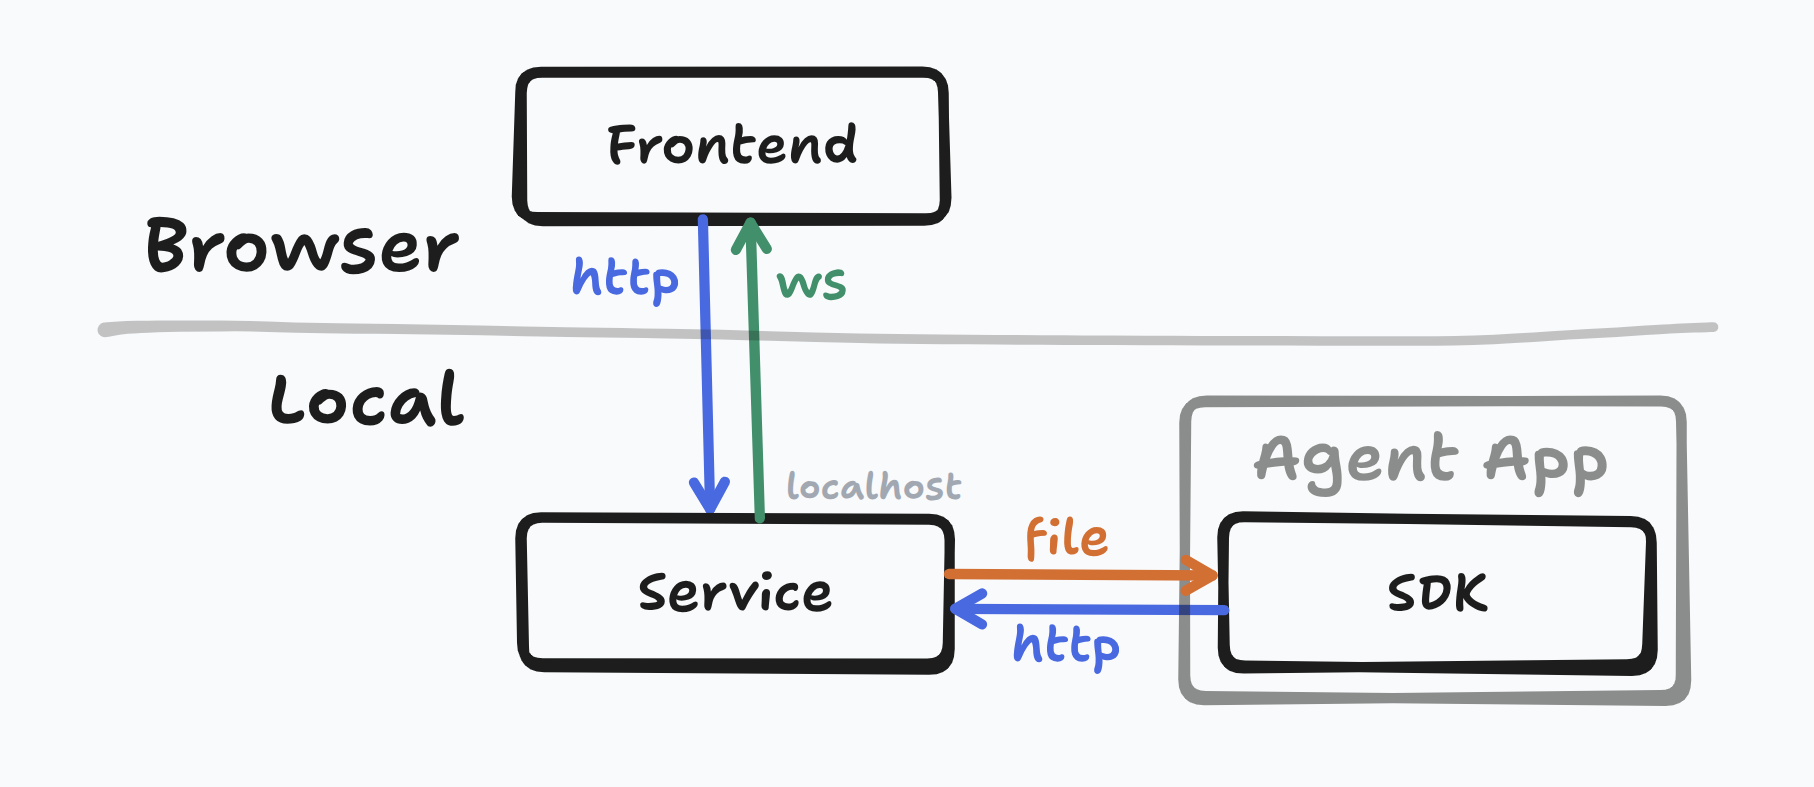
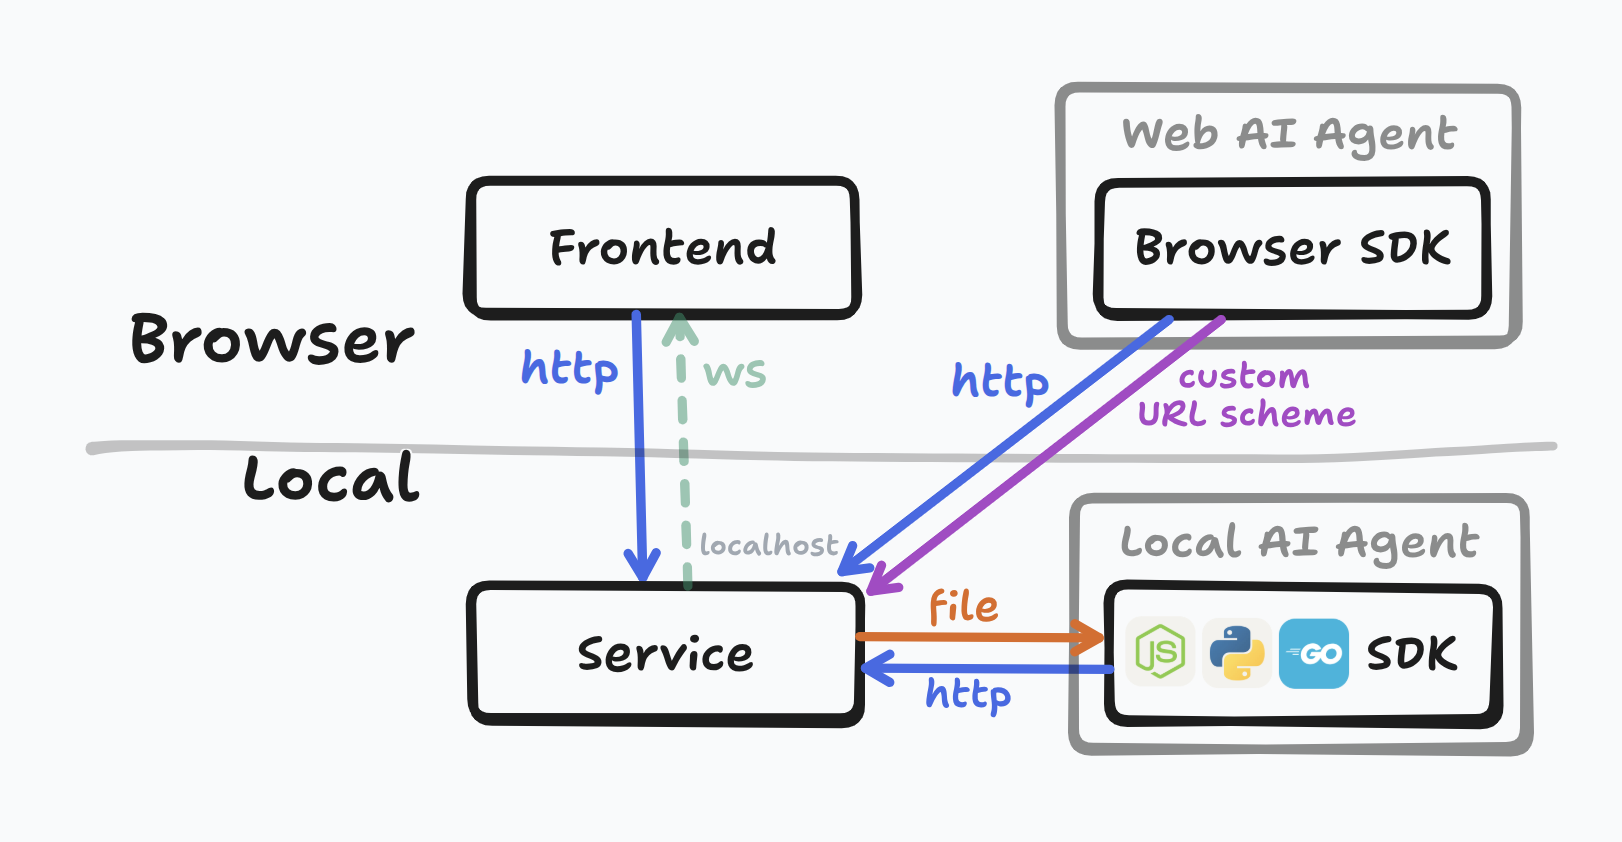
docs: update

Changed region(s): [[0.0308, 0.061, 0.9556, 0.9149], [0.3391, 0.7319, 0.4624, 0.7929]]

diff --git a/docs/.vitepress/config.ts b/docs/.vitepress/config.ts
@@ -8,22 +8,39 @@ export default defineConfig({
   themeConfig: {
     sidebar: [
       {
-        text: 'Introduction',
-        link: '/guide/',
+        text: 'Guide',
+        items: [
+          {
+            text: 'Introduction',
+            link: '/guide/',
+          },
+        ],
       },
       {
         text: 'SDK',
         items: [
           {
+            text: 'Python SDK',
+            link: '/sdk/python',
+          },
+          {
             text: 'Node.js SDK',
             link: '/sdk/nodejs',
           },
           {
-            text: 'Python SDK',
-            link: '/sdk/python',
+            text: 'Go SDK',
+            link: '/sdk/go',
+          },
+          {
+            text: 'Browser SDK',
+            link: '/sdk/browser',
           },
         ],
       },
+    ],
+    socialLinks: [
+      { icon: 'github', link: 'https://github.com/uni-token/core' },
+      { icon: 'discord', link: 'https://discord.gg/UCEu5gTEHg' },
     ],
   },
   head: [

diff --git a/scripts/publish.ts b/scripts/publish.ts
@@ -1,12 +1,7 @@
-import { readFileSync, writeFileSync } from 'node:fs'
 import { resolve } from 'node:path'
 import { $ } from 'zx'
 
 async function publishPythonSdk() {
-  const readme = readFileSync(resolve(import.meta.dirname, '../README.md'), 'utf8')
-  const trimmed = readme.replace(/\n<!--DEV-->([\s\S]*?)<!--\/DEV-->\n/g, '')
-  writeFileSync(resolve(import.meta.dirname, '../sdk/python/README.md'), trimmed)
-
   console.log('Building package...')
 
   $.cwd = resolve(import.meta.dirname, '../sdk/python')

diff --git a/frontend/src/components/StartServiceButton.vue b/frontend/src/components/StartServiceButton.vue
@@ -1,5 +1,5 @@
 <script setup lang="ts">
-import { downloadService, startService, SUPPORTED_OS } from '@uni-token/web-sdk'
+import { downloadService, startService, SUPPORTED_OS } from '@uni-token/browser-sdk'
 import { ref, watch } from 'vue'
 import { useI18n } from 'vue-i18n'
 import { toast } from 'vue-sonner'

diff --git a/docs/.vitepress/theme/Layout.vue b/docs/.vitepress/theme/Layout.vue
@@ -1,0 +1,14 @@
+<script setup>
+import { Analytics } from '@vercel/analytics/vue'
+import DefaultTheme from 'vitepress/theme'
+
+const { Layout } = DefaultTheme
+</script>
+
+<template>
+  <Layout>
+    <template #aside-outline-before>
+      <Analytics />
+    </template>
+  </Layout>
+</template>

diff --git a/docs/.vitepress/theme/index.ts b/docs/.vitepress/theme/index.ts
@@ -1,4 +1,9 @@
 import DefaultTheme from 'vitepress/theme'
+import Layout from './Layout.vue'
 import 'virtual:uno.css'
 
-export default DefaultTheme
+/** @type {import('vitepress').Theme} */
+export default {
+  extends: DefaultTheme,
+  Layout,
+}

diff --git a/frontend/src/stores/service.ts b/frontend/src/stores/service.ts
@@ -1,4 +1,4 @@
-import { findServicePort } from '@uni-token/web-sdk'
+import { findServicePort } from '@uni-token/browser-sdk'
 import { useIntervalFn } from '@vueuse/core'
 import { defineStore } from 'pinia'
 import { computed, ref } from 'vue'

diff --git a/service/server/server.go b/service/server/server.go
@@ -1,6 +1,7 @@
 package server
 
 import (
+	"fmt"
 	"log"
 	"net"
 	"strconv"
@@ -55,13 +56,15 @@ func checkPortAvailability(port int) bool {
 	return err != nil
 }
 
+const PORT_RANGE_START = 18760
+
 func getPort() int {
-	for i := 18000; i < 18010; i++ {
+	for i := PORT_RANGE_START; i < PORT_RANGE_START+10; i++ {
 		if checkPortAvailability(i) {
 			return i
 		} else {
 			log.Printf("Port %d is not available", i)
 		}
 	}
-	panic("No available port found in the range 18000-19000")
+	panic(fmt.Sprintf("No available port found in the range %d-%d", PORT_RANGE_START, PORT_RANGE_START+10))
 }

diff --git a/README.md b/README.md
@@ -1,45 +1,40 @@
 # UniToken
 
-![Arch](https://docs.uni-token.app/arch.png)
+LLM Token Solution for Local AI Agents.
 
-<!--DEV-->
+Open-source, local-first, and lightweight.
 
-## Development
+[**Docs**](https://docs.uni-token.app) | [Python SDK](https://docs.uni-token.app/sdk/python) | [Node.js SDK](https://docs.uni-token.app/sdk/nodejs) | [Go SDK](https://docs.uni-token.app/sdk/go) | [Browser SDK](https://docs.uni-token.app/sdk/browser) | [Development](./CONTRIBUTING.md)
 
-### Requirements
+## Why UniToken?
 
-- Node.js 22
-- PNPM 10
-- go 1.24
-- [uv](https://docs.astral.sh/uv/)
+Local AI agents face a token management dilemma: developers must either run proxy servers and charge users for API costs, or force users to configure LLM tokens themselves, reducing usability.
 
-### Preparation
+UniToken provides a local solution. Through a lightweight SDK, AI agents can launch UniToken's interface for users to authorize existing tokens or purchase new ones from LLM providers - all on a single page. The agent then receives the Base URL and API Key.
 
-```sh
-pnpm i
-go -C service mod tidy
-uv --directory sdk/python sync
-```
+UniToken consists of three open-source, local-first modules:
 
-### Start
+- **SDK**: Lightweight SDKs for Node.js and Python.
+- **App**: A [static web interface](https://uni-token.app).
+- **Service**: Local service handling storage and connections.
 
-```sh
-pnpm -C frontend dev
-pnpm -C docs dev
-go -C service run main.go
-uv --directory sdk/python run example.py
-```
+## Business Model
 
-### Build
+- UniToken is completely free - it simply guides users to LLM providers (SiliconFlow, OpenRouter, etc.), and shares the API Key with AI agents.
+- Traditional AI software bundles token costs into subscriptions, creating problems: developers lose money as usage grows, and light users avoid high fees. UniToken solves this by letting users buy their own tokens and share them across local AI agents.
+- We plan to establish partnerships with LLM providers, creating mutual benefits for providers, AI developers, and users.
 
-```sh
-pnpm -C frontend build
-pnpm -C docs build
-go -C service build
-```
+## Project Architecture
 
-<!--/DEV-->
+<img src="https://docs.uni-token.app/arch.png" alt="UniToken Architecture" />
 
-## License
+## Getting Started
 
-MIT LICENSE
+For AI Agent developers, you may choose from the following lightweight SDKs to integrate UniToken into your AI agents:
+
+- [Python SDK](/sdk/python/)
+- [Node.js SDK](/sdk/node/)
+- [Go SDK](/sdk/go/)
+- [Browser SDK](/sdk/browser/)
+
+For users, you can visit the [UniToken App](https://uni-token.app) to manage your LLM tokens.

diff --git a/docs/guide/index.md b/docs/guide/index.md
@@ -4,7 +4,7 @@
 
 Local AI agents face a token management dilemma: developers must either run proxy servers and charge users for API costs, or force users to configure LLM tokens themselves, reducing usability.
 
-UniToken provides a local solution. Through a lightweight SDK, AI agents can launch UniToken's interface for users to authorize existing tokens or purchase new ones from LLM providers—all on a single page. The agent then receives the Base URL and API Key.
+UniToken provides a local solution. Through a lightweight SDK, AI agents can launch UniToken's interface for users to authorize existing tokens or purchase new ones from LLM providers - all on a single page. The agent then receives the Base URL and API Key.
 
 UniToken consists of three open-source, local-first modules:
 
@@ -14,6 +14,21 @@ UniToken consists of three open-source, local-first modules:
 
 ## Business Model
 
-- UniToken is completely free—it simply guides users to LLM providers (SiliconFlow, OpenRouter, etc.), and shares the API Key with AI agents.
+- UniToken is completely free - it simply guides users to LLM providers (SiliconFlow, OpenRouter, etc.), and shares the API Key with AI agents.
 - Traditional AI software bundles token costs into subscriptions, creating problems: developers lose money as usage grows, and light users avoid high fees. UniToken solves this by letting users buy their own tokens and share them across local AI agents.
 - We plan to establish partnerships with LLM providers, creating mutual benefits for providers, AI developers, and users.
+
+## Project Architecture
+
+<img src="/arch.png" alt="UniToken Architecture" class="rounded-lg" />
+
+## Getting Started
+
+For AI Agent developers, you may choose from the following lightweight SDKs to integrate UniToken into your AI agents:
+
+- [Python SDK](/sdk/python/)
+- [Node.js SDK](/sdk/node/)
+- [Go SDK](/sdk/go/)
+- [Browser SDK](/sdk/browser/)
+
+For users, you can visit the [UniToken App](https://uni-token.app) to manage your LLM tokens.

diff --git a/docs/sdk/python.md b/docs/sdk/python.md
@@ -1,3 +1,14 @@
-# Python SDK
+# UniToken Python SDK
 
-The Python SDK for UniToken allows developers to easily integrate token management into their local AI applications. It provides a simple interface for launching the UniToken app, enabling users to authorize existing tokens or purchase new ones from LLM providers.
+![PyPI - Version](https://img.shields.io/pypi/v/unitoken)
+
+## Installation
+
+```sh
+pip install unitoken
+uv add unitoken
+```
+
+## Usage
+
+<<< ../../sdk/python/example.py{1,10-15}

diff --git a/docs/index.md b/docs/index.md
@@ -22,7 +22,7 @@ features:
     details: No backend server required. All data is stored locally.
   - icon: <span class="i-carbon:ibm-toolchain"></span>
     title: Lightweight SDK
-    details: Supports Node.js and Python. Few lines of code to integrate.
+    details: Supports Python, Node.js, Browser and Go. Few lines of code to integrate.
   - icon: <span class="i-carbon:create-link"></span>
     title: Auto Connection
     details: AI Agents can automatically connect to existing UniToken service.

diff --git a/CONTRIBUTING.md b/CONTRIBUTING.md
@@ -1,0 +1,33 @@
+## Development
+
+### Requirements
+
+- Node.js 22
+- PNPM 10
+- go 1.24
+- [uv](https://docs.astral.sh/uv/)
+
+### Preparation
+
+```sh
+pnpm i
+go -C service mod tidy
+uv --directory sdk/python sync
+```
+
+### Start
+
+```sh
+pnpm -C frontend dev
+pnpm -C docs dev
+go -C service run main.go
+uv --directory sdk/python run example.py
+```
+
+### Build
+
+```sh
+pnpm -C frontend build
+pnpm -C docs build
+go -C service build
+```
